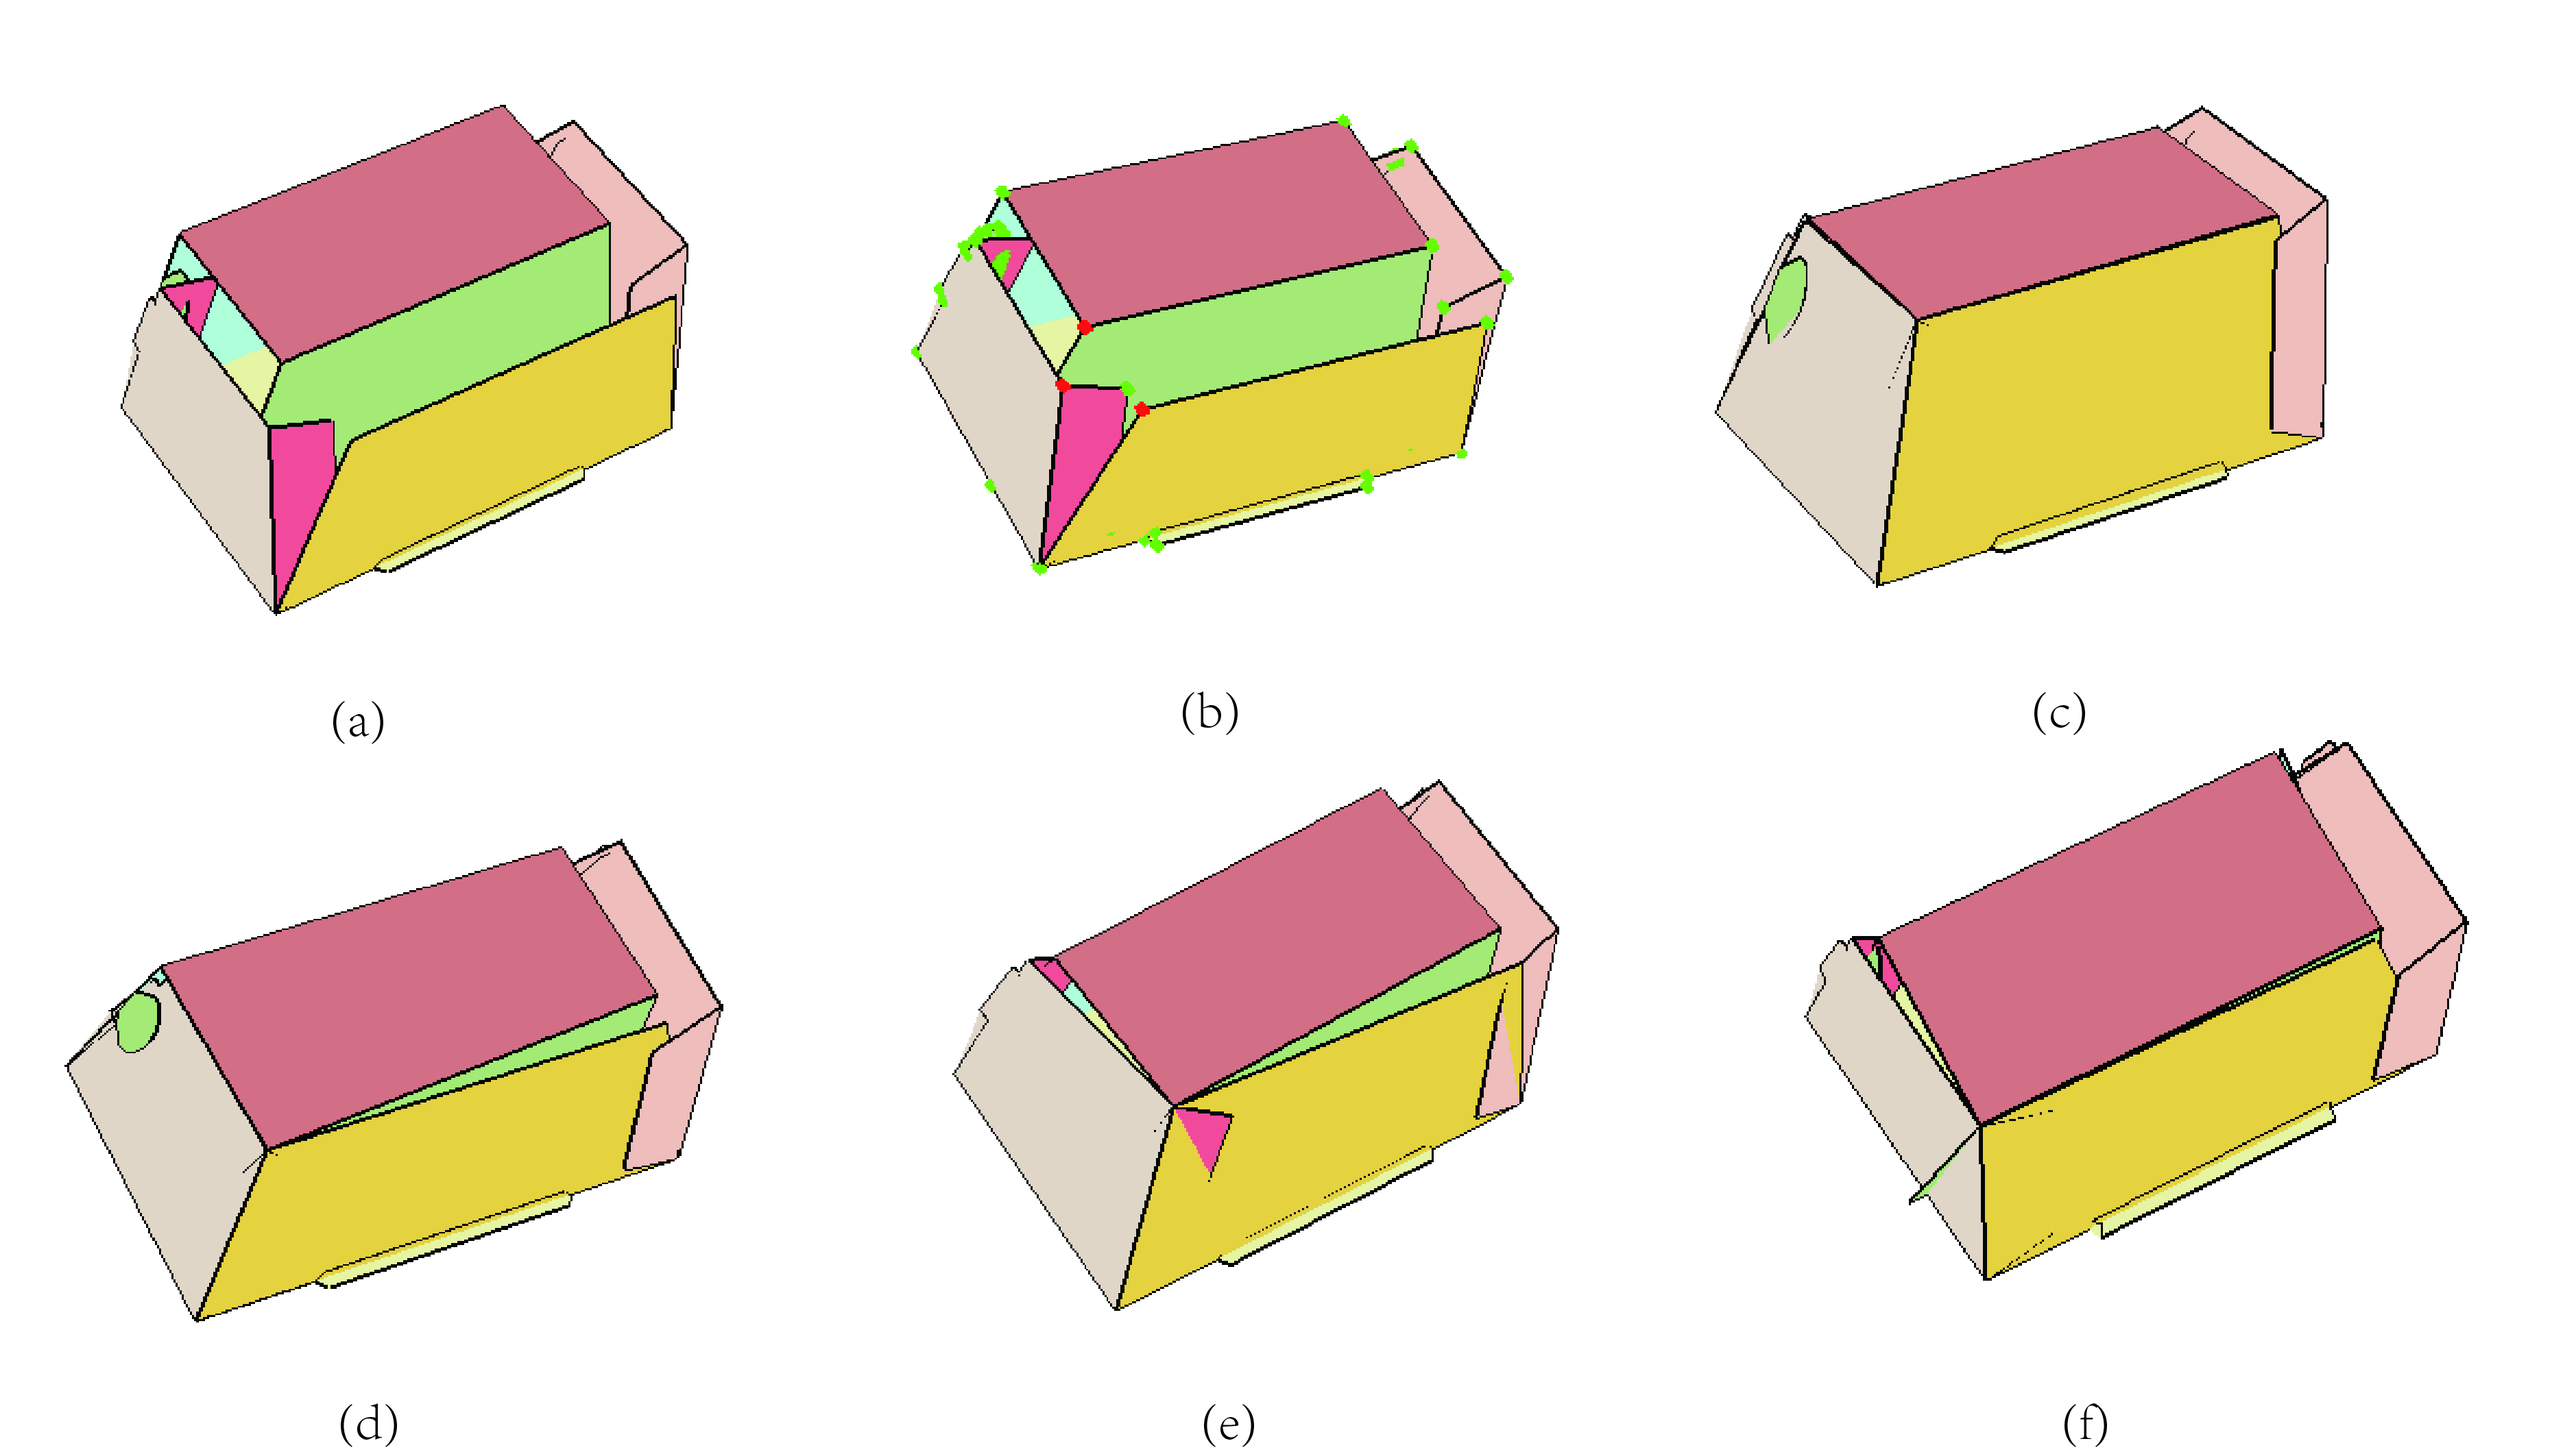
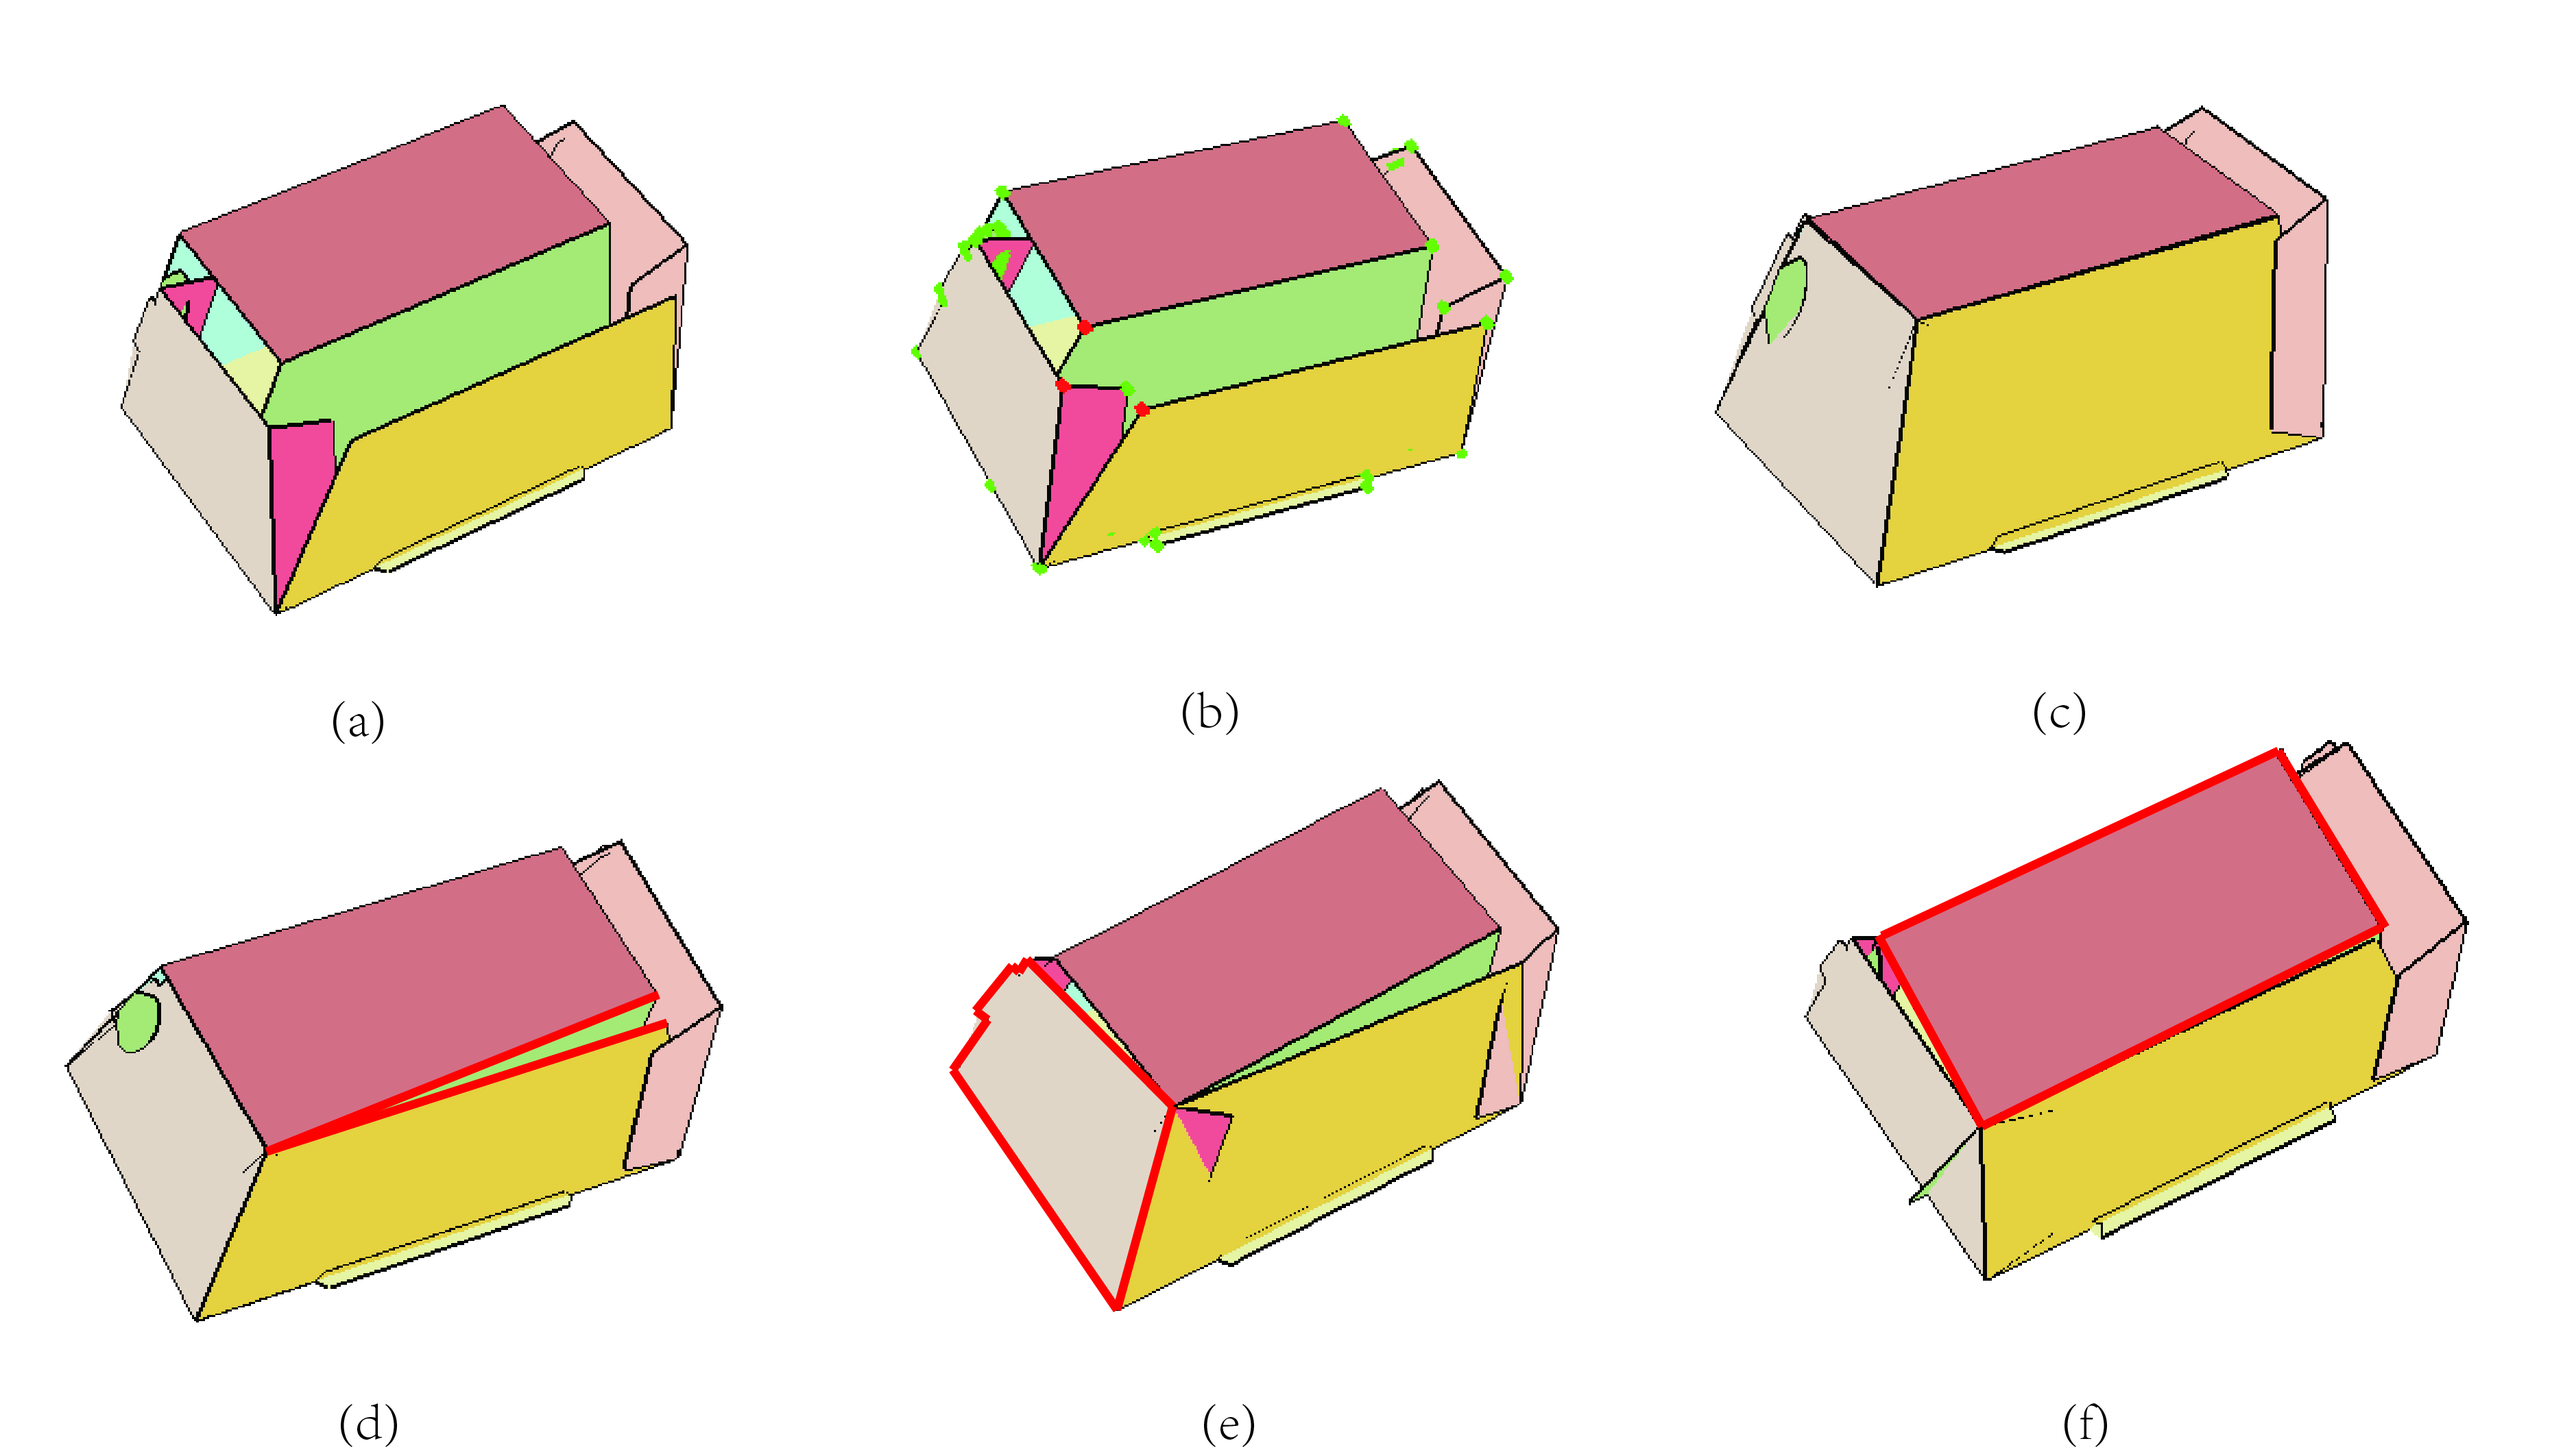
R1，modify paper according to the comments

diff --git a/doc/Algorithm.tex b/doc/Algorithm.tex
@@ -43,16 +43,31 @@ In our system, \cxj{two} types of shape refinement operations, vertex merging, a
 \noindent
 \textbf{Vertex merging} is detected among the nearby vertexes. 
 For irregular shapes consists of non-rectangular faces or non-perpendicular adjacent faces, some vertexes supposed to folded to the same position are close to each other after the initialization step. 
-For each pair of vertexes $\mathbf{v}_a$, $\mathbf{v}_b$, if $|\mathbf{v}_a-\mathbf{v}_b|<\epsilon$, and one edge connecting to $\mathbf{v}_a$ has the same length with one edge connecting to $\mathbf{v}_b$.
+For each pair of vertexes $\mathbf{v}_a$, $\mathbf{v}_b$ {\color{blue}{that in the nonadjacent face}}, if $|\mathbf{v}_a-\mathbf{v}_b|<\epsilon$, and one edge connecting to $\mathbf{v}_a$ has the same length with one edge connecting to $\mathbf{v}_b$.
 \cxj{Add discussion about more than two vertexes. Improve figure by highlighting the merging edge and vertex. }
+{\color{blue}{While there are sometimes more than two vertexes that need to be merged, as an example shown in Figure~\ref{fig:vertexMerging}, after $\mathbf{v}_a$ and $\mathbf{v}_b$ being considered to relocate in the same place, if the next vertex $\mathbf{v}_c$} is detected satisfying $|\mathbf{v}_c-\mathbf{v}_b|<\epsilon$ and one of incident edges of $\mathbf{v}_c$ has the same length as $\mathbf{v}_b$'s, vertex $\mathbf{v}_c$ also has the need to merge with $\mathbf{v}_a$ and $\mathbf{v}_b$.}
+
+\begin{figure}
+	\centering
+	\includegraphics[width=0.5\textwidth]{images/vertexMerging.png}
+	\caption{$\mathbf{v}_a$ and $\mathbf{v}_b$ may have the need to merge cause $|\mathbf{v}_a-\mathbf{v}_b|<\epsilon$, and one edge connecting to $\mathbf{v}_a$ marked as green has the same length with one edge connecting to $\mathbf{v}_b$ also marked as green. $\mathbf{v}_c$ can also be considered that need to merge with $\mathbf{v}_a$ and $\mathbf{v}_b$ as $|\mathbf{v}_c-\mathbf{v}_b|<\epsilon$ and one of incident edges of $\mathbf{v}_c$ marked as blue has the same length as $\mathbf{v}_b$'s also marked as blue.}
+	\label{fig:vertexMerging}
+\end{figure}
 
 %Consider the initialization results can represent the ideal model partly, the disadjacent vertices that have one edge with same length can be regarded as targets that need to be located in the same place if their Euclidean distance is below a certain threshold.
 
 \noindent
 \textbf{symmetry detection} On account of the simplicity of the carton shape, the vertexes that have same length set of incident edges can be regarded as symmetric pair. While users select vertices that need to be merged together, symmetry detection can reduce repetitive work by giving users suggestions of symmetric vertices.
+
+{\color{blue}{Take Figure~\ref{fig:symmetry} as an example, given a symmetric 2D layout (a), we can generate its initialized model (b). While refining, the red circled four vertexes actually do the same operation as the blue ones on account of its symmetry property. As an result, our system can detect these symmetry pairs to assist users improve efficiency.}}
 \cxj{Add a figure to illustrate this. }
 
-
+\begin{figure}
+	\centering
+	\includegraphics[width=0.9\textwidth]{images/symmetry.jpg}
+	\caption{Given a symmetric 2D layout (a), we can generate its initialized model (b). While refining, the red circled four vertexes actually do the same operation as the blue ones on account of its symmetry property.}
+	\label{fig:symmetry}
+\end{figure}
 
 \cxj{Once the user selects a suggested shape refinement operation, we optimize the 3D shape based on a series of geometric constraints.}
 %We now introduce the constrains used in our construction method:
@@ -112,11 +127,12 @@ We add these soft constraints by adding a small weight $w$, which is set 0.001 i
 
 Figure~\ref{fig:constrain} illustrates the necessity of basic three constrains.
 \cxj{More detailed explaination on the figure. Explain the three constraints in the figure.}
+{\color{blue}{When we merge three vertexes circled in red Figure~\ref{fig:constrain} (b) into one location, the optimized model should be like Figure~\ref{fig:constrain}}. The model shown in Figure~\ref{fig:constrain} (d) (e) and (f) are the results after optimizing without edge length constrain, coplanarity and face rigidity constrain separately. Without edge length constrain, the two red edges have been stretched Figure~\ref{fig:constrain} (d), the face surrounded by red lines Figure~\ref{fig:constrain} (e) is not a standard plane without coplanarity, and the face surrounded by red lines in Figure~\ref{fig:constrain} (f) has been deformed without face rigidity.}
 
 \begin{figure}
 	\centering
 	\includegraphics[width=0.9\textwidth]{images/constrain.jpg}
-	\caption{Given an initial state~(a), by choosing three points marked in red~(b) that need to be relocated together, basic three shape constrains can lead to the optimization result~(c). The bottom three are the results optimized lack of edge constrain, coplane constrain and plane constrain separately, compared to~(c), the results can not keep the basic shape well.}
+	\caption{Given an initial state~(a), by choosing three points marked in red~(b) that need to be relocated together, basic three shape constrains can lead to the optimization result~(c). The bottom three are the results optimized lack of edge length constrain, coplanarity and face rigidity separately, compared to~(c), the results can not keep the basic shape well. Without edge length constrain, the two red edges have been stretched (d), the face surrounded by red lines (e) is not a standard plane without coplanarity, and the face surrounded by red lines in (f) has been deformed without face rigidity.}
 	\label{fig:constrain}
 \end{figure}
 

diff --git a/doc/initialization.tex b/doc/initialization.tex
@@ -2,50 +2,24 @@
 \subsection{Shape Initialization}\label{sec:initialization}
 
 \cxj{re-write this section. Describe clearly about the parameters, the objective, and methods. }
-In this section we explain the reason why using a specific angle to each fold edge, and constructing our initialized model. The basic idea is to interpret the folded state of a box as a series of rotation angles along each edge, where the problem of predicting the folded state is turned into a problem of predicting these angles.
 
-Observe from existing data, two common rules are summarized as our basic idea of initialization.
+In this section we explain the reason why using a specific angle to each fold edge, and constructing our initialized model. The basic ideal is to interpret the folded state of a box as a series of rotation angles along each edge, and by setting specific value of angles which is $\pi/2$, we can have a rough model to assist the later optimization.
+		
+Observed from existing data in the Internet, most of the traditional cartons are cuboid, as the examples shown in Figure~\ref{fig:realdata} (a) and (b), they are used to put in files or delivering daily supplies. Although there is a recent trend to design more complicated layouts to attract consumers Figure~\ref{fig:realdata} (c), the shape of these unusual cartons is similar to orthogonality boxes as their functions are still packaging commodity. Based on this observation, we set $\pi/2$ as the value of rotation angle to each fold edge, and have the initialized model as Figure~\ref{fig:initial}.
 
-
-
-\noindent
-\textbf{Perpendicularity of adjacent faces.} Generally speaking, the adjacent planes should not be paralleled in the 3D carton model. 
-To generate a box-like shape, we encourage each pair of adjacent faces to be perpendicular. 
-%
-This is defined as a cost term:
-\begin{equation}
-\alpha_{pe} = \sum_{i = 1}[\sin^{-1}(\mathbf{n}_1 \cdot \mathbf{n}_2)]^{2},
-\label{equ:perp}
-\end{equation}
-where $\hat{n}_1$ and $\hat{n}_2$ denotes all possible combinations of normals of adjacent planes, and $n$ is the number of such combinations.
-
-\noindent
-\textbf{Plane parallelism} It was observed that two planes with same shape are probably paralleled, so we encourage more planes with same shape to be paralleled. The term is
-\begin{equation}
-\alpha_{pa} = \sum_{i = 1}^{n} [\cos^{-1}(\mathbf{n}_1 \cdot \mathbf{n}_2)]^{2},
-\label{equ:para}
-\end{equation}
-where $\hat{n}_1$ and $\hat{n}_2$ denotes all possible combinations of normals of disadjacent planes that have same shape,  and $n$ is the number of such combinations.
-
-By implementing the CMA-ES(Covariance Matrix Adaptation Evolution Strategy)~\cite{CMAES} adding the above two constrains, the initialization result is shown in Figure~\ref{fig:initial}. Note that as the input variables are fold angles of edges, $\mathbf{n}_1 \cdot \mathbf{n}_2$ is represented by $cos\alpha$ where $\alpha$ is the angle between these two normal vectors. 
-
-We can see from the five examples shown in Figure~\ref{fig:initial}, the up three examples can have ideal results and the bottom two results are even not closed at last, which actually caused by the two constrains above lead to a result that each angle of each edge is always $\pi/2$. As a consequence, some irregular boxes will present a boxy shape which will be refined later by user interaction.
-
-As for our initialization, $\pi/2$ is finally set to each angle and this causes more than half of boxes folded correctly in our database.
-
-
-\cxj{do not use angle. do you use parallelism?}
-%\begin{figure}
-%	\centering
-%	\includegraphics[width=0.9\textwidth]{images/initial.jpg}
-%	\caption{Initialized results of five examples. Each row is an example, and the first column is the 2D design layout, the second column is the polymesh created from layout, the third column is the initialized results optimized with the two constrains.}
-%	\label{fig:initial}
-%\end{figure}
+As shown in Figure~\ref{fig:initial} (a), the traditional cartons as cuboid boxes can reach an ideal state, while the novel designs need a little refinement like the four examples in Figure~\ref{fig:initial} (b). Take the hexagonal box as an example, users only need to assign six paste faces into corresponding surface, the model of a feasible carton will be generated. As a result, we interactively allow users to add these constrains into our system and optimize to a desired model.
 
 \begin{figure}
 	\centering
-	\includegraphics[width=0.9\textwidth]{images/initial2.jpg}
-	\caption{15 different initialization results. Eight of them need not further refine. \cxj{show the input. point out which 8.}}
+	\includegraphics[width=0.9\textwidth]{images/realdata.jpg}
+	\caption{Two traditional cartons (a), (b) and one unusual carton (c) with their corresponding layouts.}
+	\label{fig:realdata}
+\end{figure}
+
+\begin{figure}
+	\centering
+	\includegraphics[width=0.9\textwidth]{images/initial.jpg}
+	\caption{Eight different initialization results. Four initial cartons shown in the second column of (a) can reach the ideal state, the other four cartons need further refine (b).}
 	\label{fig:initial}
 \end{figure}
 

diff --git a/doc/Introduction.tex b/doc/Introduction.tex
@@ -14,6 +14,9 @@ Although previous works solved plenty problems in paper folding, they have not c
 In this paper, we focus on the carton folding problem and introduce a shape optimization method.
 
 \cxj{discuss more about the challenges in this problem. Why is it difficult?}
+{\color{blue}{Given a structural layout of a carton only, it is hard to formulate the final state of model mathematically cause the information extracted from layout is little and even the topology is changing after merging vertexes that need to relocate in the same place. However it is also important to
+construct 3D models from layout, on one hand, the layouts of cartons are more reachable for common users, on the other hand, the unfolded layouts from 3D objects consume more paper and sometimes are not feasible to fold.}}
+
 
 In this paper, shape constrains for carton are proposed to optimize 2D design layout into the corresponding 3D realization. Moreover, an interactive design and exploration framework is developed to allow users visualize the structural layout in a 3D view, which can improve the efficiency a lot when designing a complicated paper package. The contribution of this paper includes the following:
 
